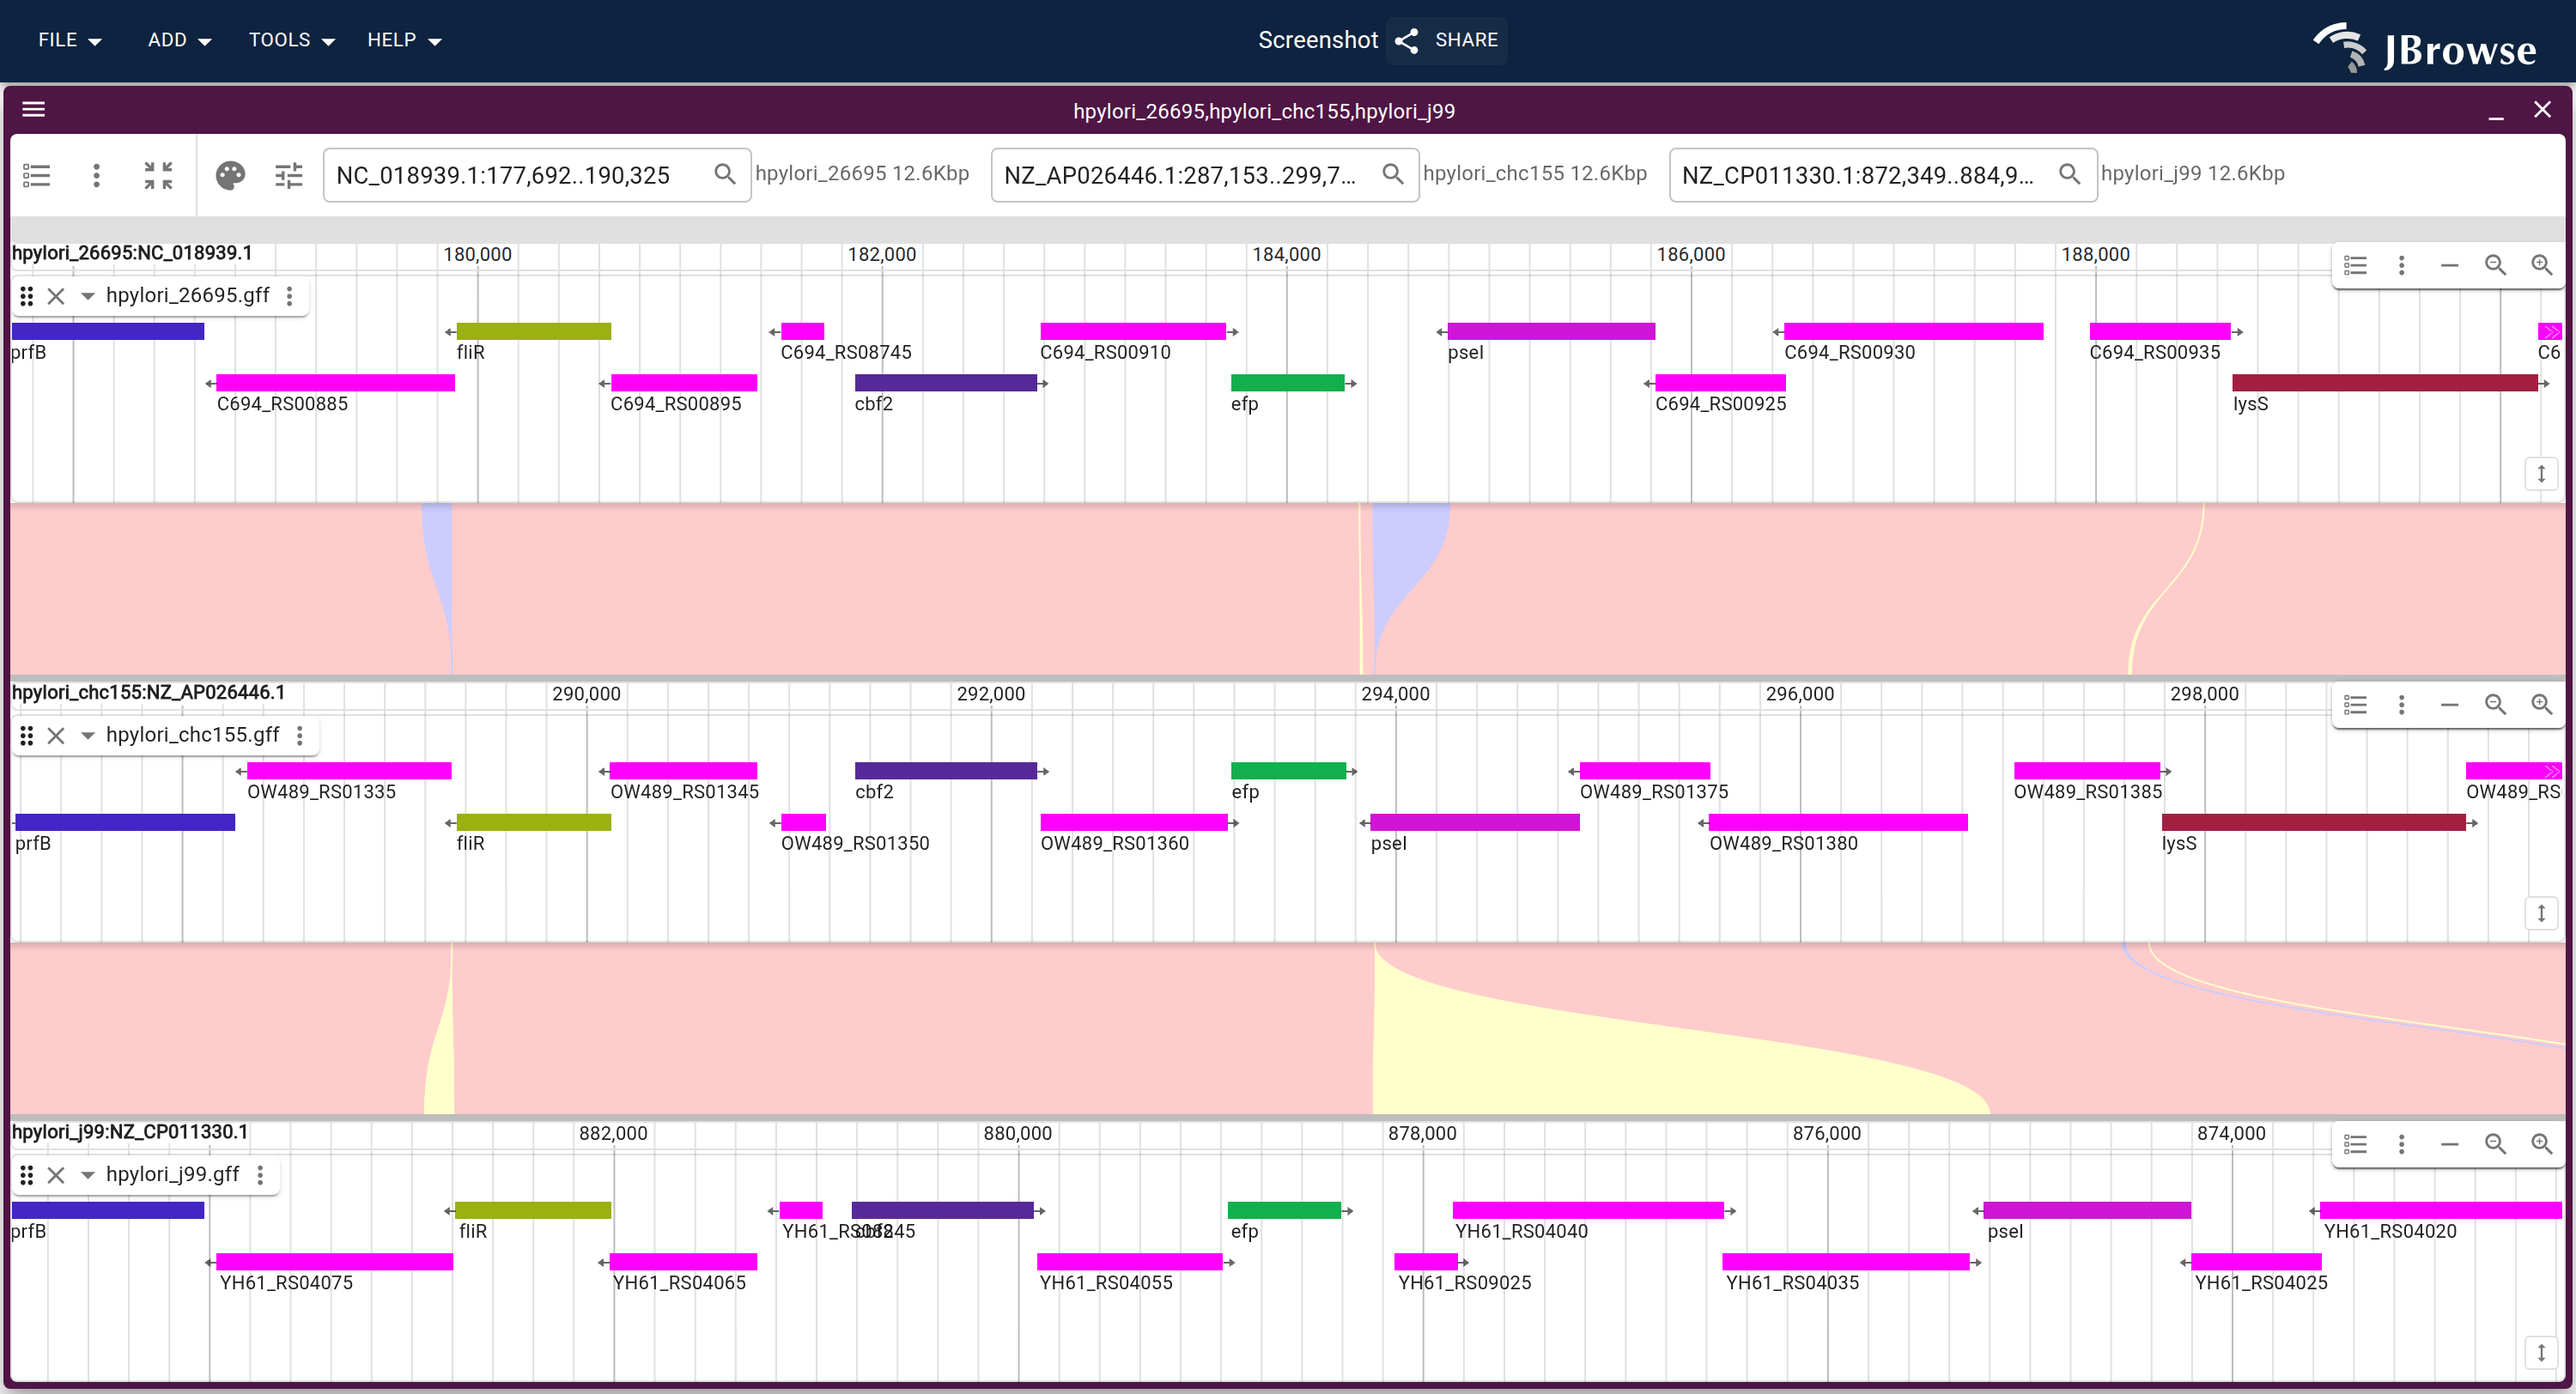
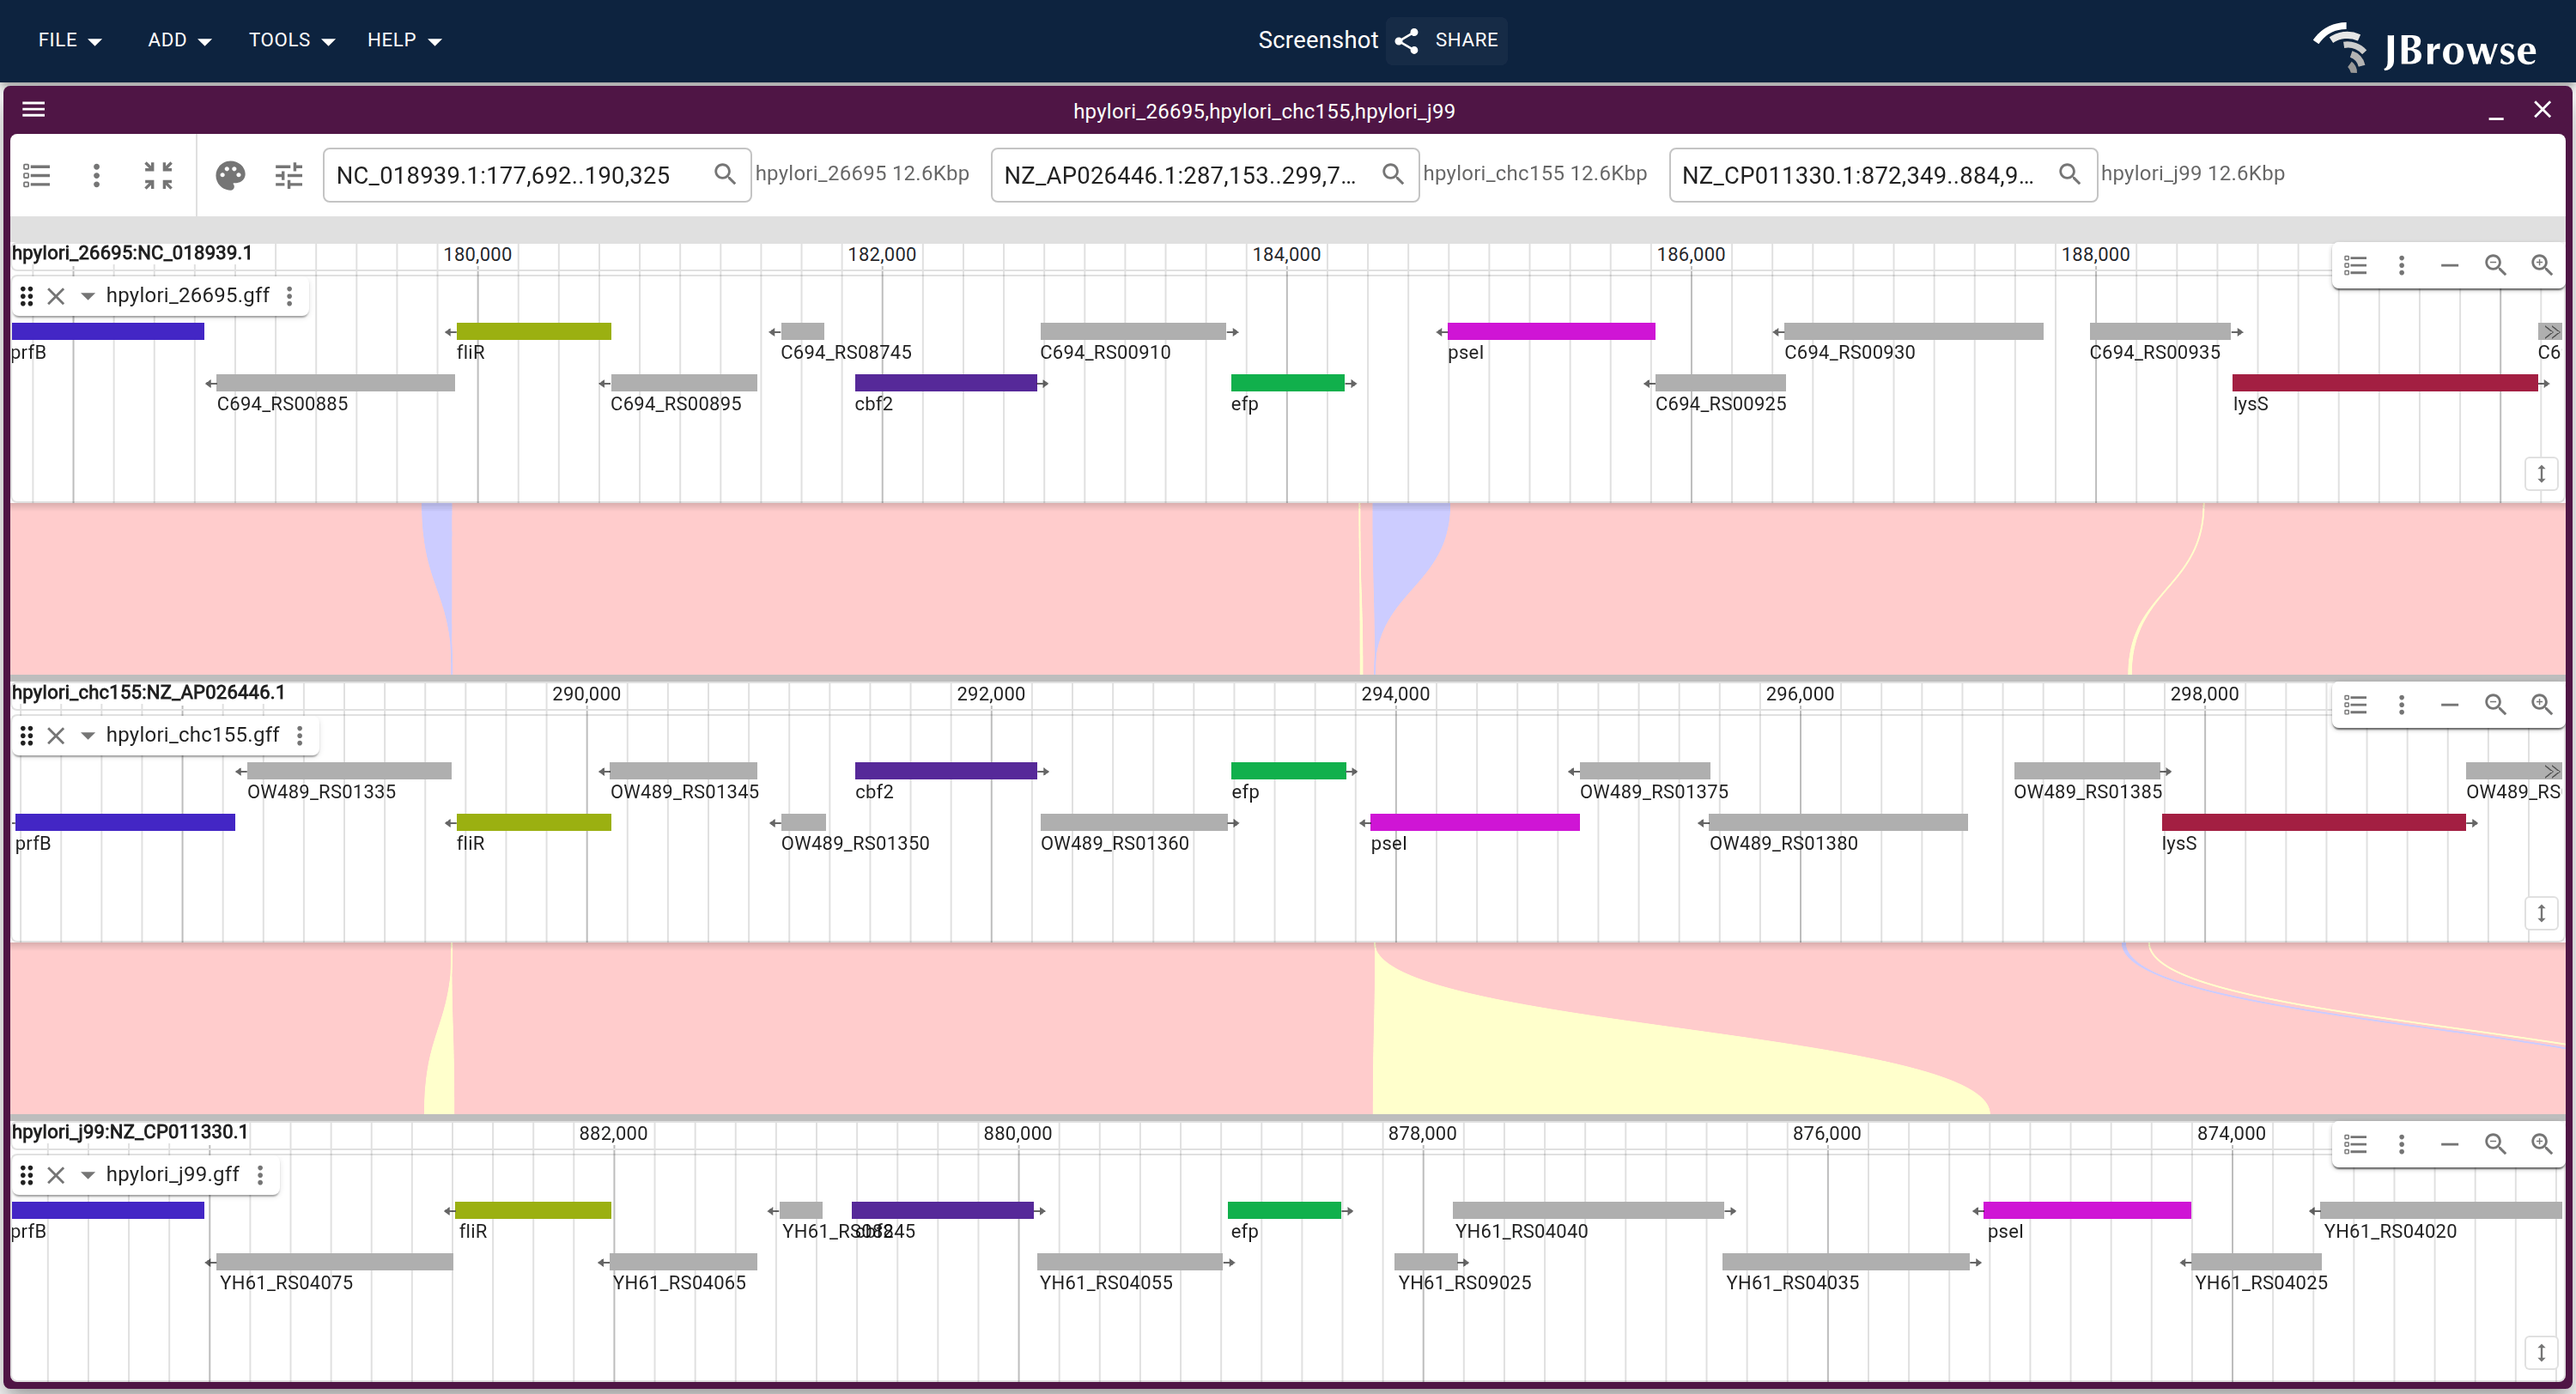
docs(synteny): grey the unnamed genes, and open both MCScan files in one frame
ortholog_colors: two thirds of the genes in that window carry only a locus tag,
so randomColor(undefined) painted most of the frame one strong magenta and the
fallback read as a named group. Grey them and a color means an ortholog symbol.

anchors_vs_simple: the second frame carries the .anchors file as a lane in each
panel, so the gene pairs behind a block ribbon are in the same frame. Both
ribbon sets on one level was tried and measured: same pink, solid band.

Claude-Session: https://claude.ai/code/session_011xQEbTekTLMTSWopEJ2txk

diff --git a/website/scripts/specs/synteny.ts b/website/scripts/specs/synteny.ts
@@ -89,7 +89,16 @@ const TNNT3_FRAME = {
 // collapseEmptyRows drops each row to its scalebar rather than a "No tracks
 // active" block.
 function mcscanFilePartSpecs(): ScreenshotSpec[] {
-  const part = (name: string, trackId: string, label: string) => ({
+  // `lane` puts a SECOND MCScan file in both panels as a feature lane, so a
+  // frame can hold both files at once. Not as a second ribbon set on the same
+  // level: measured, and the block ribbons paint straight over the gene ribbons
+  // in the same pink, so the band goes solid and neither file is readable.
+  const part = (
+    name: string,
+    trackId: string,
+    label: string,
+    lane?: string,
+  ) => ({
     mode: 'url' as const,
     name,
     url: sessionSpec(DOTPLOT_CONFIG, {
@@ -101,8 +110,20 @@ function mcscanFilePartSpecs(): ScreenshotSpec[] {
           levelHeights: [260],
           collapseEmptyRows: true,
           views: [
-            { assembly: 'grape', loc: 'chr19:5,000,000-7,900,000' },
-            { assembly: 'peach', loc: 'Pp04:12,300,000-15,100,000' },
+            {
+              assembly: 'grape',
+              loc: 'chr19:5,000,000-7,900,000',
+              tracks: lane
+                ? [{ trackId: lane, type: 'LGVSyntenyDisplay', height: 40 }]
+                : [],
+            },
+            {
+              assembly: 'peach',
+              loc: 'Pp04:12,300,000-15,100,000',
+              tracks: lane
+                ? [{ trackId: lane, type: 'LGVSyntenyDisplay', height: 40 }]
+                : [],
+            },
           ],
         },
       ],
@@ -110,8 +131,9 @@ function mcscanFilePartSpecs(): ScreenshotSpec[] {
     readySelector: '[data-testid="synteny_canvas_done"]',
     readyTimeout: 60000,
     settleMs: 8000,
-    // two collapsed scalebar rows around one 260px band
-    viewportHeight: 445,
+    // two collapsed scalebar rows around one 260px band, plus the anchors lane
+    // in each panel where the frame carries one
+    viewportHeight: lane ? 595 : 445,
     annotations: [
       { type: 'text' as const, x: 24, y: 56, fontSize: 22, text: label },
     ],
@@ -122,10 +144,15 @@ function mcscanFilePartSpecs(): ScreenshotSpec[] {
       'grape_peach_synteny_mcscan',
       '.anchors: one ribbon per gene pair',
     ),
+    // Both files at once, per review ("show .anchors.simple and .anchors open at
+    // same time"). The block ribbons are the band; the gene anchors they were
+    // built from are the lane in each panel, so which gene pairs went into one
+    // block is IN this frame rather than carried across from the one above.
     part(
       'mcscan_synteny/anchors_simple',
       'grape_peach_synteny_mcscan_simple',
       '.anchors.simple: one ribbon per block',
+      'grape_peach_synteny_mcscan',
     ),
   ]
 }
@@ -1578,17 +1605,32 @@ export const syntenySpecs: ScreenshotSpec[] = [
     settleMs: 12000,
   },
 
-  // The "Coloring genes by ortholog" section of synteny_visualization.md, which
-  // had no figure: the same three-strain stack with the gene tracks colored by
-  // their `gene` attribute instead of one flat color. The jexl is what the "Color
-  // by attribute" dialog writes, and randomColor hashes the value, so a symbol
-  // carries one color down all three panels and the genes with only a locus tag
-  // (no `gene` attribute) share the fallback color.
+  // The "Coloring genes by ortholog" section of synteny_visualization.md: the
+  // same three-strain stack with the gene tracks colored by their `gene`
+  // attribute instead of one flat color, so a symbol carries one color down all
+  // three panels.
+  //
+  // Review: "the colors are just very bad here". Most of the frame was one
+  // strong magenta, and that was not a palette problem: two thirds of these
+  // genes carry no `gene` attribute at all, only a locus tag, so
+  // `randomColor(undefined)` painted every one of them the same color and they
+  // read as a large named group. They are grey now, so a color in this figure
+  // means what the section says it means — an ortholog symbol, the same color
+  // in all three panels.
+  //
+  // The colored genes stay on `randomColor` rather than a curated rainbow,
+  // because the figure documents what the "Color by attribute" dialog writes
+  // (ColorByAttributeDialog builds this exact jexl) and a hand-picked palette
+  // would be a picture of something the dialog cannot produce. `randomColor`'s
+  // hash was measured against a cat10-style fixed palette when it was written:
+  // the fixed palette is prettier at six values and collides badly past ten,
+  // and it is the same function coloring BAM tag values and consequence terms.
   {
     mode: 'url',
     name: 'sv_synteny/ortholog_colors',
     url: hpyloriSyntenyWithGenes({
-      geneColor: "jexl:randomColor(get(feature,'gene'))",
+      geneColor:
+        "jexl:get(feature,'gene') ? randomColor(get(feature,'gene')) : 'rgb(175,175,175)'",
     }),
     readyText: 'NC_018939.1',
     readyTimeout: 60000,

diff --git a/website/docs/tutorials/synteny_visualization.md b/website/docs/tutorials/synteny_visualization.md
@@ -113,10 +113,18 @@ ortholog id, since NCBI reuses standardized symbols across strains. On each gene
 track, open **Color by attribute** from the track menu and enter `gene`: every
 distinct value of that attribute gets its own deterministic color, so an
 ortholog carries one color down all three panels and a gene's synteny becomes
-legible by color alone. Features with no such attribute fall back to a single
-color, which is what the locus-tag-only genes share.
+legible by color alone.
 
-<Figure caption="The same three strains with each gene track colored by its gene attribute. prfB, fliR, cbf2, efp and lysS hold one color per symbol down all three panels; the locus-tag-only genes share the fallback color." src="/img/sv_synteny/ortholog_colors.png" />
+Features with no such attribute all take one fallback color, and in this window
+that is two thirds of the genes, so the fallback ends up the loudest thing on
+screen. Editing the expression the dialog wrote to send them somewhere neutral
+fixes that:
+
+```
+jexl:get(feature,'gene') ? randomColor(get(feature,'gene')) : 'rgb(175,175,175)'
+```
+
+<Figure caption="The same three strains with each gene track colored by its gene attribute. prfB, fliR, cbf2, efp, pseI and lysS hold one color per symbol down all three panels; the genes that carry only a locus tag are grey." src="/img/sv_synteny/ortholog_colors.png" />
 
 ## Using PIF for large genomes
 

diff --git a/website/docs/tutorials/mcscan_synteny.md b/website/docs/tutorials/mcscan_synteny.md
@@ -59,7 +59,7 @@ each genome, so `.anchors.simple` draws one ribbon per block where `.anchors`
 draws one per gene pair. Neither file carries coordinates: the gene ids are
 whatever your annotation used, and the BED files are what resolve them.
 
-<Figure src="/img/mcscan_synteny/anchors_vs_simple.png" links="Gene pairs=mcscan_synteny/anchors,Blocks=mcscan_synteny/anchors_simple" caption="One block of the same run, drawn from each file in turn. Top: .anchors, one ribbon per orthologous gene pair. Bottom: .anchors.simple, the same block as a single ribbon." />
+<Figure src="/img/mcscan_synteny/anchors_vs_simple.png" links="Gene pairs=mcscan_synteny/anchors,Blocks=mcscan_synteny/anchors_simple" caption="One block of the same run, drawn from each file in turn. Top: .anchors, one ribbon per orthologous gene pair. Bottom: .anchors.simple as the single block ribbon, with the .anchors file open at the same time as a lane in each panel, so the gene pairs that went into the block are in the same frame." />
 
 ### BED files
 
